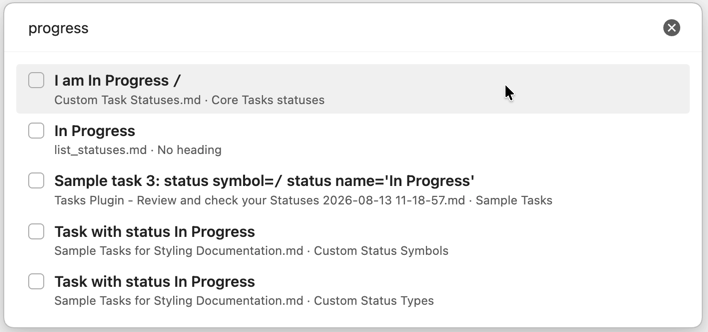
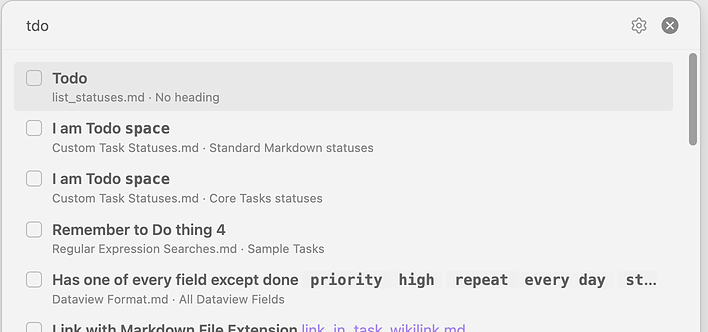
fix: address Quick Search review feedback

diff --git a/tests/Commands/QuickSearchTasks.test.ts b/tests/Commands/QuickSearchTasks.test.ts
@@ -2,10 +2,10 @@ import moment from 'moment';
 import { Notice } from 'obsidian';
 import {
     QuickSearchTasksModal,
-    filterIncompleteTasksByDescription,
+    findIncompleteTasksByDescriptionSubstring,
     openTaskAtSourceLocation,
+    rankMatchingIncompleteTasksByDescription,
     saveFuzzyMatchingSetting,
-    searchIncompleteTasksByDescription,
     taskSearchMetadataText,
     taskSearchSuggestionText,
 } from '../../src/Commands/QuickSearchTasks';
@@ -106,19 +106,19 @@ describe('Registering the command', () => {
 
 describe('Finding matching tasks', () => {
     it('should return only incomplete tasks whose descriptions contain the query, ignoring case', () => {
-        expect(filterIncompleteTasksByDescription(tasks, 'release')).toEqual([
+        expect(findIncompleteTasksByDescriptionSubstring(tasks, 'release')).toEqual([
             reviewRELEASEChecklist,
             writeReleaseNotes,
         ]);
     });
 
     it('should not show results until the user enters a search query', () => {
-        expect(filterIncompleteTasksByDescription(tasks, '')).toHaveLength(0);
-        expect(filterIncompleteTasksByDescription(tasks, '   ')).toHaveLength(0);
+        expect(findIncompleteTasksByDescriptionSubstring(tasks, '')).toHaveLength(0);
+        expect(findIncompleteTasksByDescriptionSubstring(tasks, '   ')).toHaveLength(0);
     });
 
     it('should not match task tags', () => {
-        expect(filterIncompleteTasksByDescription(tasks, '#release')).toEqual([]);
+        expect(findIncompleteTasksByDescriptionSubstring(tasks, '#release')).toEqual([]);
     });
 });
 
@@ -145,7 +145,7 @@ describe('Choosing the Quick Search matching mode', () => {
 
         expect(modal.getSuggestions('tdo')).toEqual([task]);
 
-        updateSettings({ searchTasks: { fuzzyMatching: false } });
+        updateSettings({ quickSearch: { fuzzyMatching: false } });
 
         expect(modal.getSuggestions('tdo')).toEqual([]);
     });
@@ -156,12 +156,12 @@ describe('Choosing the Quick Search matching mode', () => {
 
         await saveFuzzyMatchingSetting(false, saveSettings, refreshSearch);
 
-        expect(getSettings().searchTasks.fuzzyMatching).toBe(false);
+        expect(getSettings().quickSearch.fuzzyMatching).toBe(false);
         expect(refreshSearch).toHaveBeenCalledTimes(1);
         expect(saveSettings).toHaveBeenCalledTimes(1);
     });
 
-    it('should anchor the options button to the search input container', () => {
+    it('should keep the options button aligned by placing it inside the search input container', () => {
         const modal = new QuickSearchTasksModal({} as any, () => tasks, jest.fn());
         const modalElement = addObsidianElementMethods(document.createElement('div'));
         const inputContainer = addObsidianElementMethods(document.createElement('div'));
@@ -172,6 +172,8 @@ describe('Choosing the Quick Search matching mode', () => {
 
         modal.onOpen();
 
+        // The input container is the button's CSS positioning context. Appending
+        // the button to the modal instead would move it above the search field.
         const optionsButton = modalElement.querySelector('[aria-label="Quick search options"]');
         expect(optionsButton?.parentElement).toBe(inputContainer);
     });
@@ -188,7 +190,7 @@ describe('Ranking description search matches', () => {
             [completedMatch.descriptionWithoutTags, 3],
         ]);
 
-        const results = searchIncompleteTasksByDescription(
+        const results = rankMatchingIncompleteTasksByDescription(
             [distantMatch, completedMatch, closeMatch],
             (description) => {
                 const score = scores.get(description);
@@ -203,7 +205,7 @@ describe('Ranking description search matches', () => {
         const first = new TaskBuilder().description('A todo').build();
         const second = new TaskBuilder().description('B todo').build();
 
-        const results = searchIncompleteTasksByDescription([second, first], () => ({ score: 1 }));
+        const results = rankMatchingIncompleteTasksByDescription([second, first], () => ({ score: 1 }));
 
         expect(results).toEqual([first, second]);
     });
@@ -275,7 +277,9 @@ describe('Finding matching tasks, honouring the Global Query', () => {
 
             const tasks = descriptions.map((description) => new TaskBuilder().description(description).build());
 
-            const foundDescriptions = filterIncompleteTasksByDescription(tasks, query).map((task) => task.description);
+            const foundDescriptions = findIncompleteTasksByDescriptionSubstring(tasks, query).map(
+                (task) => task.description,
+            );
             expect(foundDescriptions).toEqual(expectedFoundDescriptions);
         },
     );
@@ -328,7 +332,9 @@ describe('Finding matching tasks, sorting results in expected order', () => {
     ])('%s', (_, query: string, descriptions: string[], expectedFoundDescriptions: string[]) => {
         const tasks = descriptions.map((description) => new TaskBuilder().description(description).build());
 
-        const foundDescriptions = filterIncompleteTasksByDescription(tasks, query).map((task) => task.description);
+        const foundDescriptions = findIncompleteTasksByDescriptionSubstring(tasks, query).map(
+            (task) => task.description,
+        );
         expect(foundDescriptions).toEqual(expectedFoundDescriptions);
     });
 
@@ -356,11 +362,11 @@ describe('Finding matching tasks, sorting results in expected order', () => {
 
             const query = tasks[0].description;
 
-            const result = filterIncompleteTasksByDescription(tasks, query);
+            const result = findIncompleteTasksByDescriptionSubstring(tasks, query);
             expect(result.map(propertyGetter)).toEqual(expectedOrder);
 
             // Repeat the sort, with the tasks initially in reverse order
-            const reverse = filterIncompleteTasksByDescription(tasks.reverse(), query);
+            const reverse = findIncompleteTasksByDescriptionSubstring(tasks.reverse(), query);
             expect(reverse.map(propertyGetter)).toEqual(expectedOrder);
         }
 

diff --git a/src/Commands/QuickSearchTasks.ts b/src/Commands/QuickSearchTasks.ts
@@ -52,27 +52,27 @@ function applyFiltersToTask(globalQueryFilters: Filter[], task: Task, searchInfo
     }
 }
 
-export function filterIncompleteTasksByDescription(tasks: readonly Task[], query: string): Task[] {
+export function findIncompleteTasksByDescriptionSubstring(tasks: readonly Task[], query: string): Task[] {
     if (query.trim() === '') {
         return [];
     }
 
     const normalizedQuery = query.toLowerCase();
 
-    return searchIncompleteTasksByDescription(tasks, (description) =>
+    return rankMatchingIncompleteTasksByDescription(tasks, (description) =>
         description.toLowerCase().includes(normalizedQuery) ? { score: 0 } : null,
     );
 }
 
-export function fuzzySearchIncompleteTasksByDescription(tasks: readonly Task[], query: string): Task[] {
+export function findIncompleteTasksByFuzzyDescription(tasks: readonly Task[], query: string): Task[] {
     if (query.trim() === '') {
         return [];
     }
 
-    return searchIncompleteTasksByDescription(tasks, prepareFuzzySearch(query));
+    return rankMatchingIncompleteTasksByDescription(tasks, prepareFuzzySearch(query));
 }
 
-export function searchIncompleteTasksByDescription(
+export function rankMatchingIncompleteTasksByDescription(
     tasks: readonly Task[],
     matchDescription: TaskDescriptionMatcher,
 ): Task[] {
@@ -156,7 +156,7 @@ export async function saveFuzzyMatchingSetting(
     onSaveSettings: () => Promise<void>,
     onChange: () => void,
 ): Promise<void> {
-    updateSettings({ searchTasks: { fuzzyMatching } });
+    updateSettings({ quickSearch: { fuzzyMatching } });
     onChange();
     await onSaveSettings();
 }
@@ -193,7 +193,7 @@ export class QuickSearchTasksModal extends SuggestModal<Task> {
         optionsButton.onclick = () => {
             new QuickSearchOptionsModal({
                 app: this.app,
-                fuzzyMatching: getSettings().searchTasks.fuzzyMatching,
+                fuzzyMatching: getSettings().quickSearch.fuzzyMatching,
                 onChange: async (fuzzyMatching) =>
                     await saveFuzzyMatchingSetting(fuzzyMatching, this.onSaveSettings, () =>
                         this.inputEl.dispatchEvent(new Event('input', { bubbles: true })),
@@ -204,9 +204,9 @@ export class QuickSearchTasksModal extends SuggestModal<Task> {
 
     public getSuggestions(query: string): Task[] {
         const tasks = this.getTasks();
-        return getSettings().searchTasks.fuzzyMatching
-            ? fuzzySearchIncompleteTasksByDescription(tasks, query)
-            : filterIncompleteTasksByDescription(tasks, query);
+        return getSettings().quickSearch.fuzzyMatching
+            ? findIncompleteTasksByFuzzyDescription(tasks, query)
+            : findIncompleteTasksByDescriptionSubstring(tasks, query);
     }
 
     public renderSuggestion(task: Task, el: HTMLElement): void {

diff --git a/src/Commands/QuickSearchTasks.scss b/src/Commands/QuickSearchTasks.scss
@@ -1,13 +1,19 @@
 .tasks-quick-search-modal-container {
     .prompt-input-container {
+        // The options button uses Obsidian's absolute modal button positioning,
+        // so anchor it to the search input container instead of the whole modal.
         position: relative;
     }
 
     .prompt-input {
+        // The sum covers the button's inset and width, so search text does not
+        // extend underneath the absolutely positioned button.
         padding-inline-end: calc(var(--size-4-16) + var(--size-4-4));
     }
 
     .tasks-quick-search-options-button {
+        // Vertically centre the button on the search field and position it
+        // using a logical inset so the layout also works right-to-left.
         top: 50%;
         inset-inline-end: var(--size-4-12);
         transform: translateY(-50%);

diff --git a/tests/Config/Settings.test.ts b/tests/Config/Settings.test.ts
@@ -87,11 +87,11 @@ describe('resetSettings behaviour', () => {
     });
 
     it('should enable fuzzy Quick Search by default and retain a loaded value', () => {
-        expect(getSettings().searchTasks.fuzzyMatching).toBe(true);
+        expect(getSettings().quickSearch.fuzzyMatching).toBe(true);
 
-        updateSettings({ searchTasks: { fuzzyMatching: false } });
+        updateSettings({ quickSearch: { fuzzyMatching: false } });
 
-        expect(getSettings().searchTasks.fuzzyMatching).toBe(false);
+        expect(getSettings().quickSearch.fuzzyMatching).toBe(false);
     });
 
     it('should completely remove properties not in defaultSettings', () => {

diff --git a/src/Config/Settings.ts b/src/Config/Settings.ts
@@ -84,7 +84,7 @@ export interface Settings {
     searchResults: {
         taskCountLocation: 'top' | 'bottom';
     };
-    searchTasks: {
+    quickSearch: {
         fuzzyMatching: boolean;
     };
 
@@ -133,7 +133,7 @@ const defaultSettings: Readonly<Settings> = {
     searchResults: {
         taskCountLocation: 'bottom',
     },
-    searchTasks: {
+    quickSearch: {
         fuzzyMatching: true,
     },
     statusSettings: new StatusSettings(),

diff --git a/docs/Editing/Quick Search.md b/docs/Editing/Quick Search.md
@@ -18,7 +18,14 @@ You can assign a hotkey to `Tasks: Quick search` in Obsidian's [Hotkeys settings
 
 ## Searching
 
-Start typing in the search dialog to filter tasks by their description. The search is case-insensitive and uses ordinary text matching. It does not search task tags, file names, or headings.
+Start typing in the search dialog to filter tasks by their description. By default, Quick Search uses case-insensitive fuzzy matching. The characters in your search must appear in the same order, but they do not need to be next to each other.
+
+Select the settings icon to open the Quick search options. Turn off `Fuzzy matching` to use case-insensitive substring matching, where the text you type must appear as one continuous sequence. The setting remains in effect after you reload Obsidian.
+
+![Quick search options with Fuzzy matching enabled](../images/quick-search-options.png)
+<span class="caption">Quick search options with Fuzzy matching enabled</span>
+
+Quick Search does not search task tags, file names, or headings.
 
 ## Results
 
@@ -30,10 +37,12 @@ Each result shows a non-interactive checkbox for the task status, the rendered t
 ## How Quick Search Works
 
 - The task description is searched.
-  - The search is case-insensitive and looks for the exact text you type.
+  - With `Fuzzy matching` enabled, closer matches are shown first.
+  - With `Fuzzy matching` disabled, the search looks for the exact, continuous text you type.
+  - Both matching modes are case-insensitive.
   - It does not search the task tags, file names, or headings.
   - Be aware of spaces at the start and end of the search string, as they may cause valid matches not to be found.
-- Results are sorted by description, ignoring Markdown formatting.
+- Results with equal match quality, or all results when `Fuzzy matching` is disabled, are sorted by description, ignoring Markdown formatting.
   - If tasks have the same description, they are then sorted using the [[Sorting#Default sort order|Tasks default sort order]].
 - If you use a [[Global Filter]], Quick Search respects the [[Global Filter#Settings for the Global Filter|Remove global filter from description]] setting.
 - If you use a [[Global Query]], Quick Search only includes tasks that match it.
